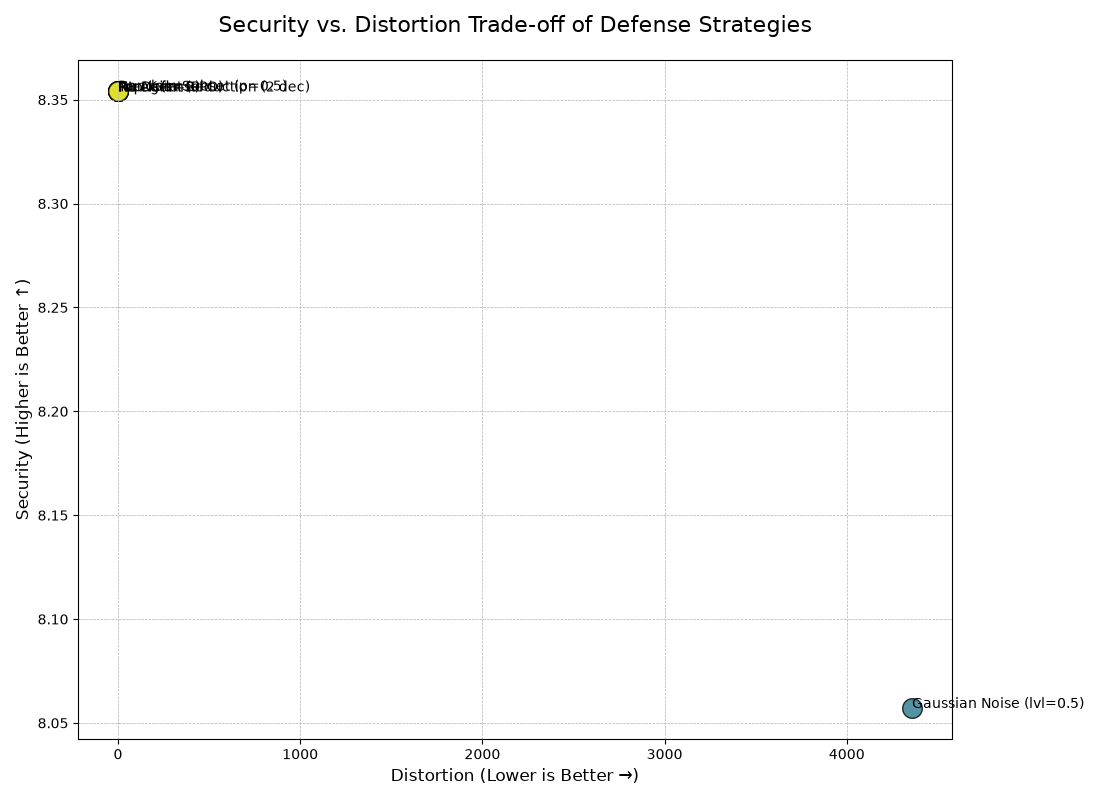
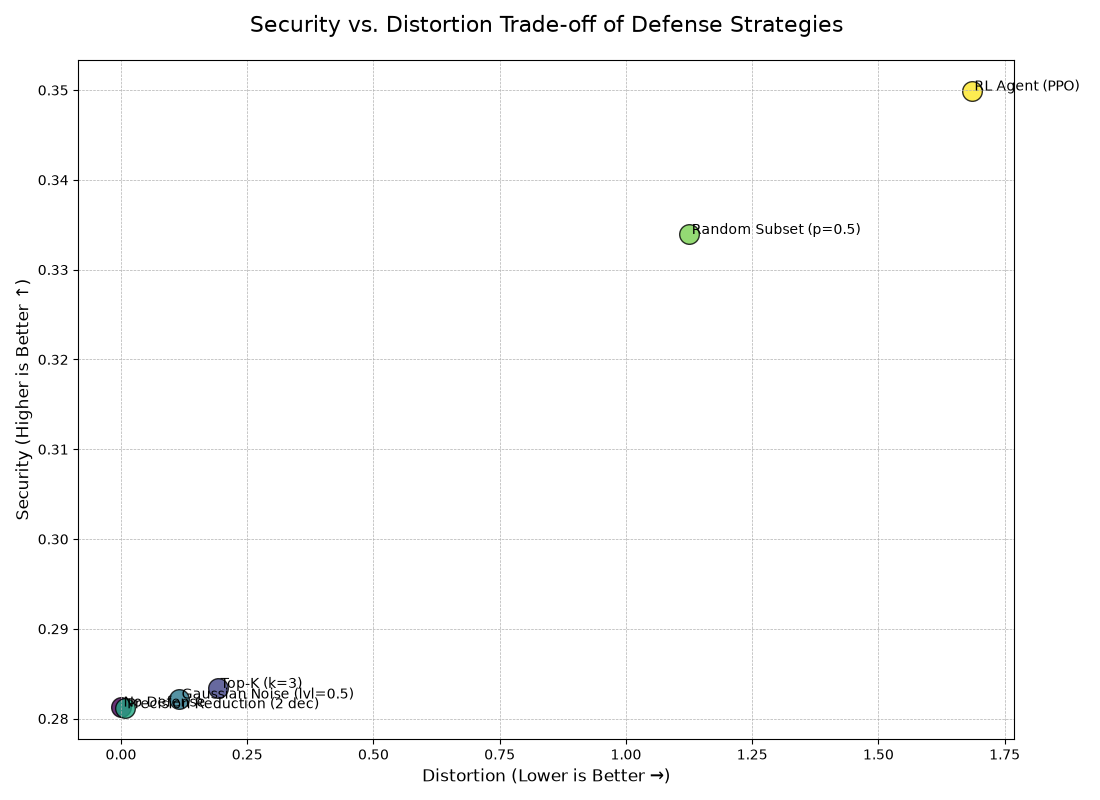
fixed obfuscation formula adversary normalization and training duration

diff --git a/evaluate_baselines.py b/evaluate_baselines.py
@@ -31,8 +31,18 @@ def evaluate_strategy(strategy_fn, X_data, target_model, explainer, num_steps=50
     np.random.seed(SEED)
     random.seed(SEED)
 
+    # Typical SHAP magnitude, used to normalize the adversary's input.
+    sample = X_data[:min(200, len(X_data))]
+    sample_shap = explainer.shap_values(sample)
+    sample_shap = sample_shap[0] if isinstance(sample_shap, list) else sample_shap
+    e_std = np.std(sample_shap, axis=0)
+    e_std[e_std == 0] = 1e-6
+    feature_std = np.concatenate([np.std(X_data, axis=0), e_std])
+    feature_std[feature_std == 0] = 1.0
+    feature_mean = np.concatenate([np.mean(X_data, axis=0), np.mean(sample_shap, axis=0)])
+
     # Adversary's input is the query concatenated with the explanation
-    adversary = Adversary(input_dim=X_data.shape[1] * 2)
+    adversary = Adversary(input_dim=X_data.shape[1] * 2, feature_mean=feature_mean, feature_std=feature_std)
     l_extract_history = []
     utility_loss_history = []
 
@@ -73,29 +83,37 @@ if __name__ == "__main__":
     print("1. Loading data, training target model, and loading RL agent...")
     X_train, X_test, target_model, explainer = load_and_train_target()
     agent = PPO.load("ppo_xai_defender_test")
-    # We must use the standard deviation of the TRAINING data for noise generation
-    # as this is what the agent was trained on.
-    X_train_std = np.std(X_train, axis=0)
     print(" -> Done.")
+
+    # Must match XAIObfuscationEnv's e_std definition for a fair comparison.
+    _sample = X_train[:min(200, len(X_train))]
+    _sample_shap = explainer.shap_values(_sample)
+    _sample_shap = _sample_shap[0] if isinstance(_sample_shap, list) else _sample_shap
+    e_std = np.std(_sample_shap, axis=0)
+    e_std[e_std == 0] = 1e-6
+
+    # Same normalization as Adversary, needed for the dynamics trace below.
+    feature_std = np.concatenate([np.std(X_test, axis=0), e_std])
+    feature_std[feature_std == 0] = 1.0
+    feature_mean = np.concatenate([np.mean(X_test, axis=0), np.mean(_sample_shap, axis=0)])
 
     # --- Define Strategy Wrappers ---
     # Wrapper for the RL Agent
     def rl_agent_strategy(e_true, x_query, step, max_steps):
         history_ratio = np.array([step / max_steps])
-        obs = np.concatenate([x_query.flatten(), history_ratio]).astype(np.float32) 
+        obs = np.concatenate([x_query.flatten(), history_ratio]).astype(np.float32)
         action, _ = agent.predict(obs, deterministic=True)
         a_t = action[0]
-        # Use the same noise application as the environment for a fair comparison
-        # The agent's action `a_t` acts as the noise_level.
-        noise = baselines.generate_noise(e_true, X_train_std, noise_level=a_t)
-        return e_true + (a_t * noise)
+        # Match the environment's obfuscation formula (Eq. 2).
+        noise = baselines.generate_noise(e_true, e_std, scale_fraction=1.0)
+        return (1 - a_t) * e_true + a_t * noise
 
     # Wrappers for static baselines
     def no_defense_strategy(e_true, x_query, step, max_steps): return e_true
     def top_k_strategy(e_true, x_query, step, max_steps): return baselines.apply_top_k_truncation(e_true, k=3)
     def noise_strategy(e_true, x_query, step, max_steps):
-        # Use the consistent data_std for noise generation
-        return baselines.apply_noise(e_true, data_std=X_train_std, noise_level=0.5)
+        # Scale to e_std (SHAP magnitude), not raw feature std - different units.
+        return baselines.apply_noise(e_true, data_std=e_std, noise_level=0.5)
     def precision_strategy(e_true, x_query, step, max_steps): return baselines.apply_precision_reduction(e_true, decimals=2)
     def subset_strategy(e_true, x_query, step, max_steps): return baselines.apply_random_subset(e_true, p=0.5)
 
@@ -157,4 +175,44 @@ if __name__ == "__main__":
     plot_filename = "security_vs_distortion_tradeoff.png"
     plt.savefig(plot_filename)
     print(f" -> Plot saved to {plot_filename}")
+
+    print("\n5. Recording a_t over a single session (dynamic behavior check)...")
+    # Averages can't show adaptive behavior - trace a_t and l_extract per step instead.
+    np.random.seed(SEED)
+    trace_steps = 200
+    trace_adversary = Adversary(input_dim=X_test.shape[1] * 2, feature_mean=feature_mean, feature_std=feature_std)
+    a_t_trace, l_extract_trace = [], []
+    for i in range(trace_steps):
+        x_query = X_test[i].reshape(1, -1)
+        y_target_pred = target_model.predict(x_query)
+        shap_values = explainer.shap_values(x_query)
+        e_true = (shap_values[0] if isinstance(shap_values, list) else shap_values).flatten()
+
+        history_ratio = np.array([i / trace_steps])
+        obs = np.concatenate([x_query.flatten(), history_ratio]).astype(np.float32)
+        action, _ = agent.predict(obs, deterministic=True)
+        a_t = action[0]
+        a_t_trace.append(a_t)
+
+        noise = baselines.generate_noise(e_true, e_std, scale_fraction=1.0)
+        e_output = (1 - a_t) * e_true + a_t * noise
+        adversary_input = np.concatenate([x_query, e_output.reshape(1, -1)], axis=1)
+        l_extract_trace.append(trace_adversary.compute_loss(adversary_input, y_target_pred))
+        trace_adversary.update(adversary_input, y_target_pred)
+
+    fig2, (ax1, ax2) = plt.subplots(2, 1, figsize=(11, 7), sharex=True)
+    ax1.plot(a_t_trace, color="tab:orange")
+    ax1.set_ylabel("Obfuscation intensity (a_t)")
+    ax1.set_title("RL Agent's Obfuscation Intensity and Adversary's Extraction Loss Over a Session", fontsize=14)
+    ax1.grid(True, linestyle="--", alpha=0.5)
+
+    ax2.plot(l_extract_trace, color="tab:blue")
+    ax2.set_ylabel("Extraction loss (l_extract)")
+    ax2.set_xlabel("Step in session")
+    ax2.grid(True, linestyle="--", alpha=0.5)
+
+    plt.tight_layout()
+    trace_filename = "rl_agent_dynamics_over_session.png"
+    plt.savefig(trace_filename)
+    print(f" -> Plot saved to {trace_filename}")
     plt.show()

diff --git a/train_agent.py b/train_agent.py
@@ -3,6 +3,8 @@ from datetime import datetime
 import numpy as np
 import random
 import torch
+import pandas as pd
+import matplotlib.pyplot as plt
 
 from stable_baselines3 import PPO
 from stable_baselines3.common.env_util import make_vec_env
@@ -11,6 +13,7 @@ from src.environment import XAIObfuscationEnv
 from src.utils import load_and_train_target
 
 SEED = 42
+MONITOR_DIR = "training_logs"
 
 if __name__ == "__main__":
     np.random.seed(SEED)
@@ -29,23 +32,40 @@ if __name__ == "__main__":
             "X_data": X_train,
             "target_model": target_model,
             "explainer": explainer,
-            "lambda_param": 5.0,
+            "lambda_param": 50.0,
             "mu_param": 1.0,
         }
-        env = make_vec_env(XAIObfuscationEnv, n_envs=1, env_kwargs=env_kwargs, seed=SEED)
+        # monitor_dir logs episode rewards to CSV for the learning-curve plot below.
+        env = make_vec_env(XAIObfuscationEnv, n_envs=1, env_kwargs=env_kwargs, seed=SEED, monitor_dir=MONITOR_DIR)
         print(" -> Environment initialized.")
-        
+
         print("3. Setting up PPO Agent (Defender)...")
         # Set seed for PPO agent for reproducible initialization
         agent = PPO("MlpPolicy", env, verbose=1, learning_rate=3e-4, seed=SEED)
-        
-        print("4. Starting Training Loop (this may take a moment)...")
-        agent.learn(total_timesteps=5000) # Increased timesteps for better training
+
+        print("4. Starting Training Loop (this may take a few minutes)...")
+        # 5000 steps is under one PPO rollout - not enough to learn. lambda_param=50 makes obfuscation worth its utility cost.
+        agent.learn(total_timesteps=50000)
         
         print(f"[{datetime.now().strftime('%H:%M:%S')}] Training Complete. Saving agent...")
         agent.save("ppo_xai_defender_test")
-        print(" -> Agent saved successfully. Exiting.")
-        
+        print(" -> Agent saved successfully.")
+
+        print("5. Plotting learning curve...")
+        # monitor.csv's first line is a JSON comment (run metadata), so skip it.
+        monitor_df = pd.read_csv(f"{MONITOR_DIR}/0.monitor.csv", skiprows=1)
+        rolling_reward = monitor_df["r"].rolling(window=10, min_periods=1).mean()
+
+        fig, ax = plt.subplots(figsize=(10, 6))
+        ax.plot(rolling_reward)
+        ax.set_title("PPO Training Learning Curve", fontsize=16)
+        ax.set_xlabel("Episode")
+        ax.set_ylabel("Episode Reward (10-episode rolling mean)")
+        ax.grid(True, linestyle="--", alpha=0.5)
+        plt.tight_layout()
+        plt.savefig("training_learning_curve.png")
+        print(" -> Plot saved to training_learning_curve.png. Exiting.")
+
     except Exception as e:
         print(f"\nERROR ENCOUNTERED: {e}")
         sys.exit(1)

diff --git a/src/environment.py b/src/environment.py
@@ -29,13 +29,25 @@ class XAIObfuscationEnv(gym.Env):
             dtype=np.float32
         )
 
+        # Typical SHAP magnitude - scale for "full obfuscation" and for normalizing the adversary's input.
+        sample = X_data[:min(200, len(X_data))]
+        sample_shap = self.explainer.shap_values(sample)
+        sample_shap = sample_shap[0] if isinstance(sample_shap, list) else sample_shap
+        self.e_std = np.std(sample_shap, axis=0)
+        self.e_std[self.e_std == 0] = 1e-6
+
+        adversary_std = np.concatenate([self.data_std, self.e_std])
+        adversary_std[adversary_std == 0] = 1.0
+        self.adversary_mean = np.concatenate([np.mean(self.X_data, axis=0), np.mean(sample_shap, axis=0)])
+        self.adversary_std = adversary_std
+
         # The adversary's input is the query concatenated with the explanation
-        self.adversary = Adversary(input_dim=self.n_features * 2)
+        self.adversary = Adversary(input_dim=self.n_features * 2, feature_mean=self.adversary_mean, feature_std=self.adversary_std)
 
     def reset(self, seed=None, options=None):
         super().reset(seed=seed)
         self.current_step = 0
-        self.adversary = Adversary(input_dim=self.n_features * 2)
+        self.adversary = Adversary(input_dim=self.n_features * 2, feature_mean=self.adversary_mean, feature_std=self.adversary_std)
         return self._get_obs(), {}
 
     def _get_obs(self):
@@ -52,8 +64,9 @@ class XAIObfuscationEnv(gym.Env):
         # 1. Get the true explanation and apply the agent's action (obfuscation).
         shap_values = self.explainer.shap_values(x_query)
         e_true = shap_values[0] if isinstance(shap_values, list) else shap_values
-        noise = generate_noise(e_true, self.data_std, seed_generator=self.np_random)
-        e_output = e_true + (a_t * noise)
+        # a_t=0 -> exact explanation, a_t=1 -> full obfuscation (real-scale noise, not a tiny perturbation).
+        noise = generate_noise(e_true, self.e_std, scale_fraction=1.0, seed_generator=self.np_random)
+        e_output = (1 - a_t) * e_true + a_t * noise
 
         # 2. The adversary sees the query AND the obfuscated explanation.
         adversary_input = np.concatenate([x_query, e_output], axis=1)

diff --git a/src/adversary.py b/src/adversary.py
@@ -3,7 +3,7 @@ from sklearn.neural_network import MLPClassifier
 from sklearn.metrics import log_loss
 
 class Adversary:
-    def __init__(self, input_dim):
+    def __init__(self, input_dim, feature_mean=None, feature_std=None):
         self.surrogate = MLPClassifier(
             hidden_layer_sizes=(64, 32),
             max_iter=1,
@@ -11,15 +11,21 @@ class Adversary:
         )
         self.is_initialized = False
         self.classes = np.array([0, 1])
+        # x and e live on very different scales - without this the MLP saturates and log_loss becomes meaningless.
+        self.feature_mean = feature_mean if feature_mean is not None else 0.0
+        self.feature_std = feature_std if feature_std is not None else 1.0
+
+    def _scale(self, X_batch):
+        return (X_batch - self.feature_mean) / self.feature_std
 
     def update(self, X_batch, y_batch):
         # Always pass classes to partial_fit when processing single samples
-        self.surrogate.partial_fit(X_batch, y_batch, classes=self.classes)
+        self.surrogate.partial_fit(self._scale(X_batch), y_batch, classes=self.classes)
         self.is_initialized = True
 
     def compute_loss(self, X_batch, y_true):
         if not self.is_initialized:
             return 1.0
 
-        surrogate_probs = self.surrogate.predict_proba(X_batch)
+        surrogate_probs = self.surrogate.predict_proba(self._scale(X_batch))
         return log_loss(y_true, surrogate_probs, labels=self.classes)

diff --git a/src/baselines.py b/src/baselines.py
@@ -8,11 +8,9 @@ def apply_top_k_truncation(shap_values, k=3):
     e_output[top_k_indices] = shap_values[top_k_indices]
     return e_output
 
-def generate_noise(shap_values, data_std, noise_level=1.0, seed_generator=np.random):
-    """
-    Generates Gaussian noise scaled by the standard deviation of the feature data.
-    """
-    noise_std = data_std * 0.1  # Use a fraction of data std dev as noise magnitude
+def generate_noise(shap_values, data_std, noise_level=1.0, scale_fraction=0.1, seed_generator=np.random):
+    """Gaussian noise scaled by data_std * scale_fraction (1.0 = full obfuscation)."""
+    noise_std = data_std * scale_fraction
     noise = seed_generator.normal(loc=0.0, scale=noise_std, size=shap_values.shape)
     return noise * noise_level
 
